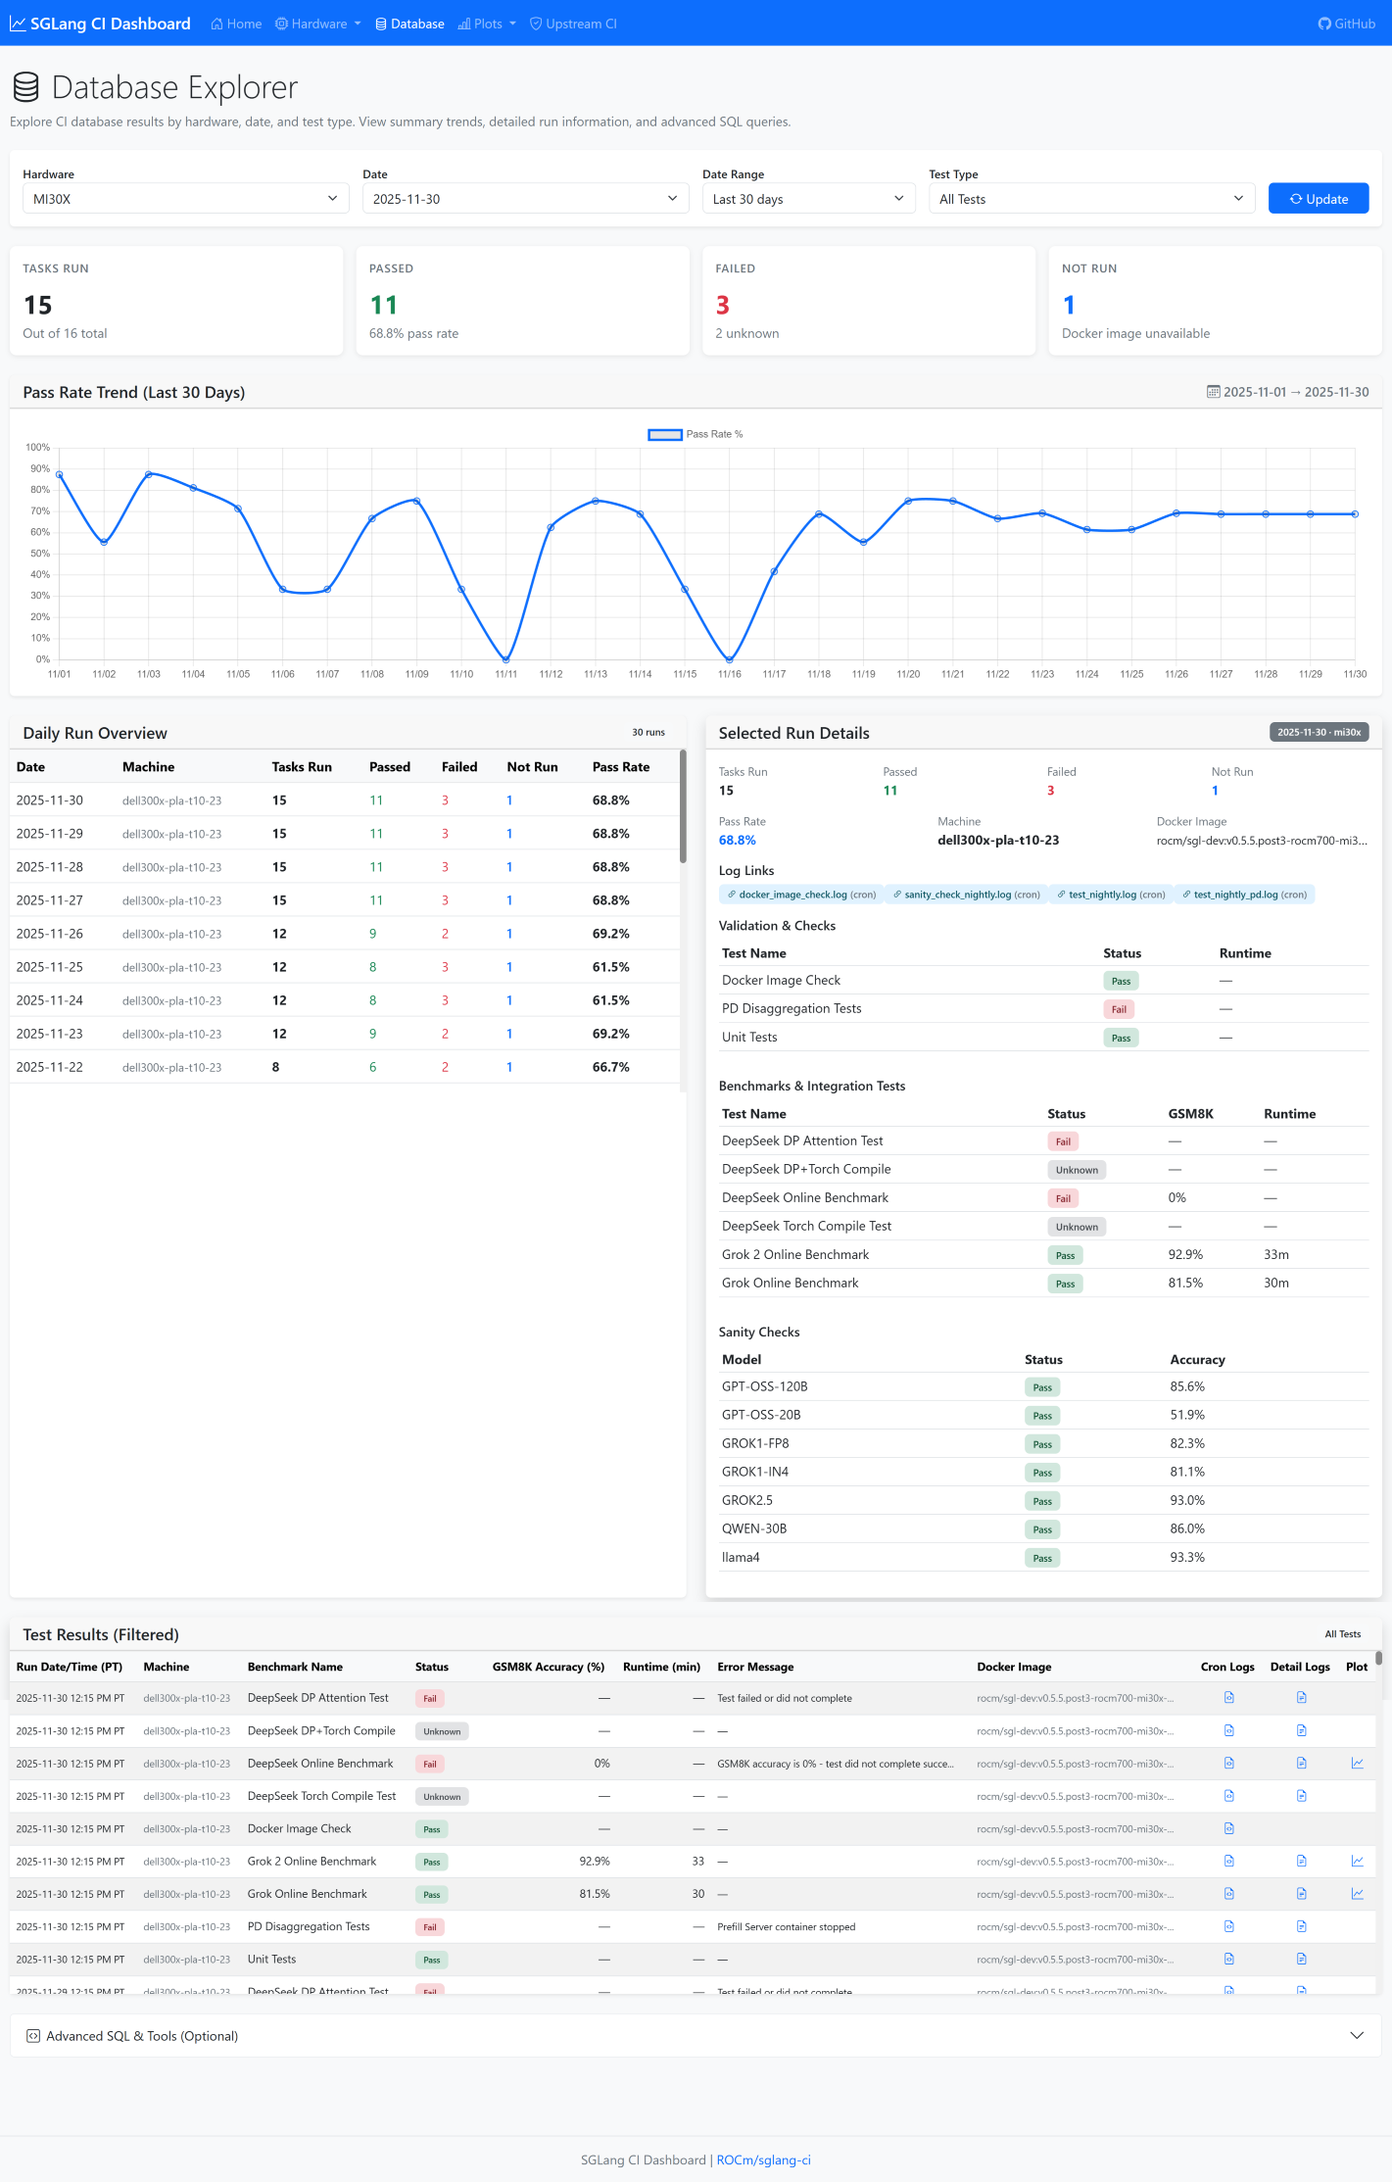
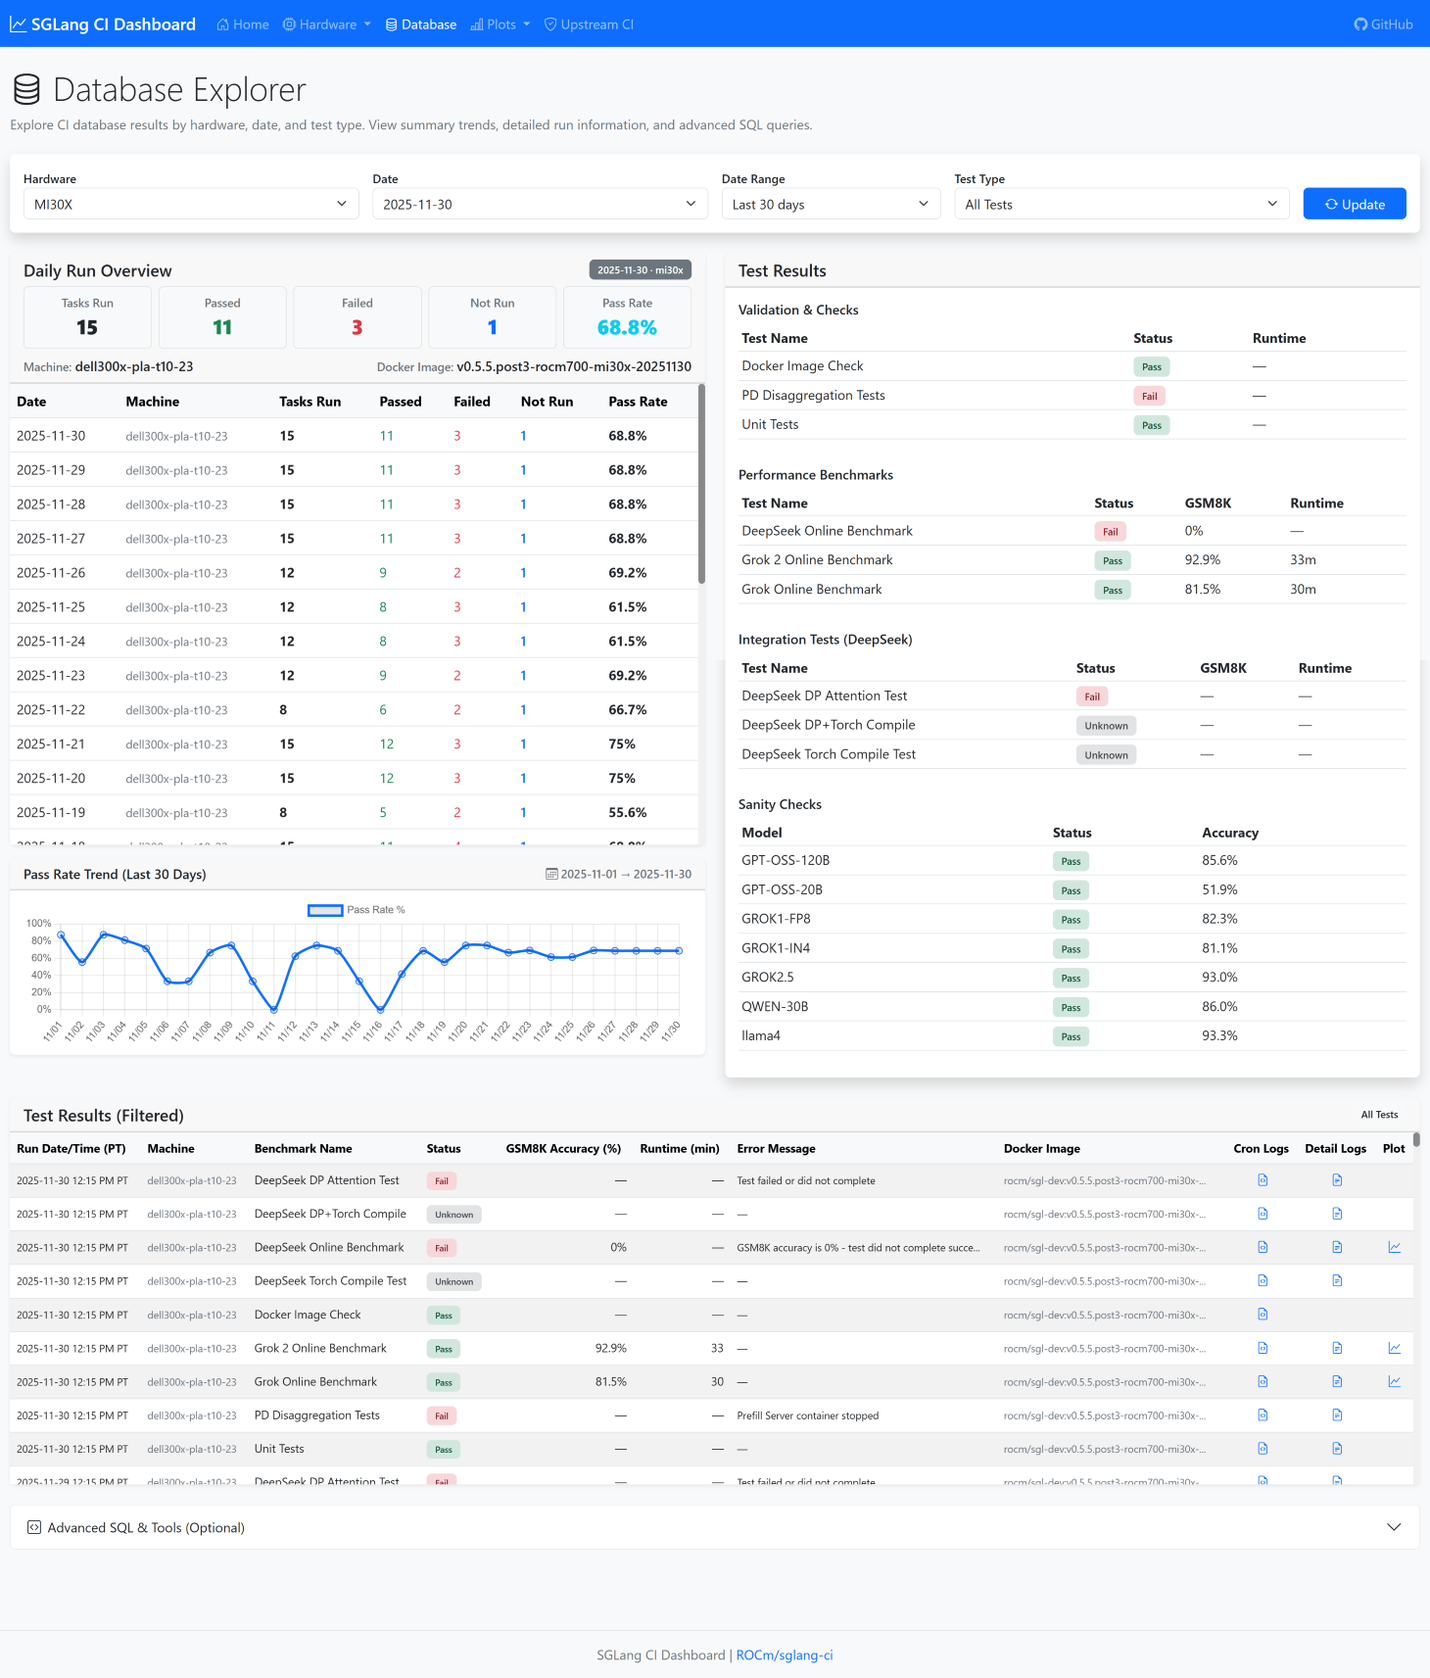
Refactor database page layout and enhance data presentation
- Removed the summary cards section and integrated its functionality into the Daily Run Overview for a more streamlined user experience.
- Updated the layout of the Daily Run Overview to include selected run statistics and improved visual presentation.
- Added a new section for Integration Tests (DeepSeek) to provide detailed insights into test results.
- Enhanced the Pass Rate Chart display and adjusted styling for better readability.
- Updated the JavaScript functions to reflect the changes in the HTML structure and ensure proper data rendering.

diff --git a/dashboard/templates/database.html b/dashboard/templates/database.html
@@ -177,32 +177,21 @@
         </div>
     </div>
 
-    <!-- Summary Cards -->
-    <div class="row g-3 mb-4" id="summaryCards"></div>
-
-    <!-- Pass Rate Chart -->
-    <div class="card mb-4">
-        <div class="card-header d-flex justify-content-between align-items-center">
-            <h5 class="mb-0">Pass Rate Trend (Last <span id="rangeLabel">7</span> Days)</h5>
-            <span class="text-muted"><i class="bi bi-calendar3"></i> <span id="dateRangeLabel">—</span></span>
-        </div>
-        <div class="card-body">
-            <div class="chart-container">
-                <canvas id="passRateChart"></canvas>
-            </div>
-        </div>
-    </div>
-
     <div class="row g-4 mb-4">
-        <!-- Daily Runs Table -->
+        <!-- Left Column: Daily Runs + Pass Rate Chart -->
         <div class="col-lg-6">
-            <div class="card h-100">
-                <div class="card-header d-flex justify-content-between align-items-center">
-                    <h5 class="mb-0">Daily Run Overview</h5>
-                    <span class="badge bg-light text-dark" id="dailyRunCount">0 runs</span>
+            <!-- Daily Runs Table with Stats -->
+            <div class="card mb-3">
+                <div class="card-header">
+                    <div class="d-flex justify-content-between align-items-center mb-2">
+                        <h5 class="mb-0">Daily Run Overview</h5>
+                        <span class="badge bg-secondary" id="selectedRunLabel">—</span>
+                    </div>
+                    <!-- Selected Run Stats -->
+                    <div id="selectedRunSummary" class="row g-2 text-center"></div>
                 </div>
                 <div class="card-body p-0">
-                    <div class="table-responsive">
+                    <div class="table-responsive" style="max-height: 550px;">
                         <table class="table table-hover mb-0" id="dailyRunsTable">
                             <thead class="table-light">
                                 <tr>
@@ -220,25 +209,28 @@
                     </div>
                 </div>
             </div>
-        </div>
 
-        <!-- Selected Run Details -->
-        <div class="col-lg-6">
-            <div class="card h-100">
-                <div class="card-header">
-                    <div class="d-flex justify-content-between align-items-center">
-                        <h5 class="mb-0">Selected Run Details</h5>
-                        <span class="badge bg-secondary" id="selectedRunLabel">—</span>
+            <!-- Pass Rate Chart -->
+            <div class="card">
+                <div class="card-header d-flex justify-content-between align-items-center py-2">
+                    <h6 class="mb-0">Pass Rate Trend (Last <span id="rangeLabel">7</span> Days)</h6>
+                    <span class="text-muted small"><i class="bi bi-calendar3"></i> <span id="dateRangeLabel">—</span></span>
+                </div>
+                <div class="card-body py-2">
+                    <div class="chart-container" style="height: 180px;">
+                        <canvas id="passRateChart"></canvas>
                     </div>
                 </div>
+            </div>
+        </div>
+
+        <!-- Right Column: Selected Run Details -->
+        <div class="col-lg-6">
+            <div class="card">
+                <div class="card-header">
+                    <h5 class="mb-0">Test Results</h5>
+                </div>
                 <div class="card-body">
-                    <div id="selectedRunSummary" class="mb-3"></div>
-
-                    <div class="mb-3">
-                        <h6>Log Links</h6>
-                        <div id="selectedRunLogs" class="d-flex flex-wrap"></div>
-                    </div>
-
                     <div class="mb-3">
                         <h6>Validation & Checks</h6>
                         <div class="table-responsive small-table">
@@ -256,9 +248,26 @@
                     </div>
 
                     <div class="mb-3">
-                        <h6>Benchmarks & Integration Tests</h6>
+                        <h6>Performance Benchmarks</h6>
                         <div class="table-responsive small-table">
                             <table class="table table-sm" id="selectedBenchmarksTable">
+                                <thead>
+                                    <tr>
+                                        <th>Test Name</th>
+                                        <th>Status</th>
+                                        <th>GSM8K</th>
+                                        <th>Runtime</th>
+                                    </tr>
+                                </thead>
+                                <tbody></tbody>
+                            </table>
+                        </div>
+                    </div>
+
+                    <div class="mb-3">
+                        <h6>Integration Tests (DeepSeek)</h6>
+                        <div class="table-responsive small-table">
+                            <table class="table table-sm" id="selectedIntegrationTable">
                                 <thead>
                                     <tr>
                                         <th>Test Name</th>
@@ -586,51 +595,7 @@ function updateFilterControls(data) {
 }
 
 function renderSummaryCards(data) {
-    const container = document.getElementById('summaryCards');
-    if (!container) return;
-
-    const selectedRun = data.selected_run || {};
-
-    const tasksRun = (selectedRun.total_tasks || 0) - (selectedRun.not_run || 0);
-
-    container.innerHTML = `
-        <div class="col-md-3">
-            <div class="card summary-card">
-                <div class="card-body">
-                    <div class="card-title">Tasks Run</div>
-                    <div class="card-value">${tasksRun}</div>
-                    <p class="text-muted mb-0">Out of ${selectedRun.total_tasks || 0} total</p>
-                </div>
-            </div>
-        </div>
-        <div class="col-md-3">
-            <div class="card summary-card">
-                <div class="card-body">
-                    <div class="card-title">Passed</div>
-                    <div class="card-value text-success">${selectedRun.passed_tasks || 0}</div>
-                    <p class="text-muted mb-0">${selectedRun.pass_rate || 0}% pass rate</p>
-                </div>
-            </div>
-        </div>
-        <div class="col-md-3">
-            <div class="card summary-card">
-                <div class="card-body">
-                    <div class="card-title">Failed</div>
-                    <div class="card-value text-danger">${selectedRun.failed_tasks || 0}</div>
-                    <p class="text-muted mb-0">${selectedRun.unknown_tasks || 0} unknown</p>
-                </div>
-            </div>
-        </div>
-        <div class="col-md-3">
-            <div class="card summary-card">
-                <div class="card-body">
-                    <div class="card-title">Not Run</div>
-                    <div class="card-value text-primary" style="font-weight: 700;">${selectedRun.not_run || 0}</div>
-                    <p class="text-muted mb-0">Docker image unavailable</p>
-                </div>
-            </div>
-        </div>
-    `;
+    // Function removed as summary cards are now integrated into Daily Run Overview
 }
 
 function renderDailyRuns(runs) {
@@ -690,15 +655,20 @@ function renderSelectedRun(selectedRun) {
     const validationTableBody = document.querySelector('#selectedValidationTable tbody');
     const benchmarkTableBody = document.querySelector('#selectedBenchmarksTable tbody');
     const sanityTableBody = document.querySelector('#selectedSanityTable tbody');
-    const logsContainer = document.getElementById('selectedRunLogs');
 
     if (!selectedRun) {
-        if (label) label.textContent = 'No run selected';
-        if (summaryContainer) summaryContainer.innerHTML = '<p class="text-muted">No run data available.</p>';
+        if (label) label.textContent = 'Select a run';
+        if (summaryContainer) summaryContainer.innerHTML = `
+            <div class="col"><div class="border rounded p-2 bg-light h-100 text-center"><div class="text-muted small">Tasks Run</div><strong class="fs-4">—</strong></div></div>
+            <div class="col"><div class="border rounded p-2 bg-light h-100 text-center"><div class="text-muted small">Passed</div><strong class="fs-4">—</strong></div></div>
+            <div class="col"><div class="border rounded p-2 bg-light h-100 text-center"><div class="text-muted small">Failed</div><strong class="fs-4">—</strong></div></div>
+            <div class="col"><div class="border rounded p-2 bg-light h-100 text-center"><div class="text-muted small">Not Run</div><strong class="fs-4">—</strong></div></div>
+            <div class="col"><div class="border rounded p-2 bg-light h-100 text-center"><div class="text-muted small">Pass Rate</div><strong class="fs-4">—</strong></div></div>
+            <div class="col-12 mt-2"><div class="d-flex justify-content-between align-items-center"><div><span class="text-muted small me-1">Machine:</span><span>—</span></div><div><span class="text-muted small me-1">Docker Image:</span><span>—</span></div></div></div>
+        `;
         if (validationTableBody) validationTableBody.innerHTML = '';
         if (benchmarkTableBody) benchmarkTableBody.innerHTML = '';
         if (sanityTableBody) sanityTableBody.innerHTML = '';
-        if (logsContainer) logsContainer.innerHTML = '';
         return;
     }
 
@@ -707,71 +677,78 @@ function renderSelectedRun(selectedRun) {
     }
 
     if (summaryContainer) {
-        const tasksRun = (selectedRun.total_tasks || 0) - (selectedRun.not_run || 0);
+        const totalTasks = selectedRun.total_tasks || 0;
+        const tasksRun = totalTasks - (selectedRun.not_run || 0);
+        const passRate = selectedRun.pass_rate || 0;
+        const notRun = selectedRun.not_run || 0;
         const machineName = selectedRun.machine_name || '—';
+        const dockerImage = selectedRun.docker_image || '—';
+        const dockerImageTag = dockerImage !== '—' ? dockerImage.split(':').pop() : '—';
+
         summaryContainer.innerHTML = `
-            <div class="row g-2 mb-3">
-                <div class="col-3">
+            <div class="col">
+                <div class="border rounded p-2 bg-light h-100 text-center">
                     <div class="text-muted small">Tasks Run</div>
-                    <strong>${tasksRun}</strong>
-                </div>
-                <div class="col-3">
-                    <div class="text-muted small">Passed</div>
-                    <strong class="text-success">${selectedRun.passed_tasks || 0}</strong>
-                </div>
-                <div class="col-3">
-                    <div class="text-muted small">Failed</div>
-                    <strong class="text-danger">${selectedRun.failed_tasks || 0}</strong>
-                </div>
-                <div class="col-3">
-                    <div class="text-muted small">Not Run</div>
-                    <strong class="text-primary" style="font-weight: 700;">${selectedRun.not_run || 0}</strong>
+                    <strong class="fs-4">${tasksRun}</strong>
                 </div>
             </div>
-            <div class="row g-2 mb-3">
-                <div class="col-4">
+            <div class="col">
+                <div class="border rounded p-2 bg-light h-100 text-center">
+                    <div class="text-muted small">Passed</div>
+                    <strong class="fs-4 text-success">${selectedRun.passed_tasks || 0}</strong>
+                </div>
+            </div>
+            <div class="col">
+                <div class="border rounded p-2 bg-light h-100 text-center">
+                    <div class="text-muted small">Failed</div>
+                    <strong class="fs-4 text-danger">${selectedRun.failed_tasks || 0}</strong>
+                </div>
+            </div>
+            <div class="col">
+                <div class="border rounded p-2 bg-light h-100 text-center">
+                    <div class="text-muted small">Not Run</div>
+                    <strong class="fs-4 text-primary">${notRun}</strong>
+                </div>
+            </div>
+            <div class="col">
+                <div class="border rounded p-2 bg-light h-100 text-center">
                     <div class="text-muted small">Pass Rate</div>
-                    <strong class="text-primary">${selectedRun.pass_rate || 0}%</strong>
+                    <strong class="fs-4 text-info">${passRate}%</strong>
                 </div>
-                <div class="col-4">
-                    <div class="text-muted small">Machine</div>
-                    <strong>${machineName}</strong>
-                </div>
-                <div class="col-4">
-                    <div class="text-muted small">Docker Image</div>
-                    <div class="text-truncate" title="${selectedRun.docker_image || '—'}"><small>${selectedRun.docker_image || '—'}</small></div>
+            </div>
+            <div class="col-12 mt-2">
+                <div class="d-flex justify-content-between align-items-center">
+                    <div><span class="text-muted small me-1">Machine:</span><span>${machineName}</span></div>
+                    <div><span class="text-muted small me-1">Docker Image:</span><span>${dockerImageTag}</span></div>
                 </div>
             </div>
         `;
     }
 
-    if (logsContainer) {
-        const logs = selectedRun.log_files || [];
-        if (!logs.length) {
-            logsContainer.innerHTML = '<span class="text-muted">No log links available.</span>';
-        } else {
-            logsContainer.innerHTML = logs.map((log) => {
-                const link = log.github_url || log.local_path || '#';
-                const icon = log.github_url ? 'bi-link-45deg' : 'bi-file-text';
-                const disabled = link === '#';
-                return `<a class="badge badge-log text-decoration-none ${disabled ? 'disabled' : ''}" href="${disabled ? '#!' : link}" target="_blank">` +
-                    `<i class="bi ${icon}"></i> ${log.log_name}` +
-                    `${log.log_type ? ` <span class=\"text-muted\">(${log.log_type})</span>` : ''}` +
-                `</a>`;
-            }).join('');
-        }
-    }
-
-    // Split test results into validation and benchmarks
-    if (benchmarkTableBody || validationTableBody) {
+    // Split test results into validation, benchmarks, and integration tests
+    const integrationTableBody = document.querySelector('#selectedIntegrationTable tbody');
+    if (benchmarkTableBody || validationTableBody || integrationTableBody) {
         const allTests = selectedRun.benchmark_results || [];
 
         // Define validation test names
         const validationTests = ['Unit Tests', 'PD Disaggregation Tests', 'Docker Image Check'];
 
-        // Split tests into two categories
+        // Define integration tests (DeepSeek-based tests)
+        const integrationTestNames = [
+            'DeepSeek DP Attention Test',
+            'DeepSeek Torch Compile Test',
+            'DeepSeek DP+Torch Compile',
+            'DeepSeek DP+MTP Test',
+            'DeepSeek MTP Test'
+        ];
+
+        // Split tests into three categories
         const validation = allTests.filter(test => validationTests.includes(test.benchmark_name));
-        const benchmarks = allTests.filter(test => !validationTests.includes(test.benchmark_name));
+        const integrationTests = allTests.filter(test => integrationTestNames.includes(test.benchmark_name));
+        const benchmarks = allTests.filter(test =>
+            !validationTests.includes(test.benchmark_name) &&
+            !integrationTestNames.includes(test.benchmark_name)
+        );
 
         // Render validation tests (no GSM8K column)
         if (validationTableBody) {
@@ -788,7 +765,7 @@ function renderSelectedRun(selectedRun) {
             }
         }
 
-        // Render benchmarks (with GSM8K column)
+        // Render performance benchmarks (Grok, DeepSeek Online)
         if (benchmarkTableBody) {
             if (!benchmarks.length) {
                 benchmarkTableBody.innerHTML = '<tr><td colspan="4" class="text-muted">No benchmark data</td></tr>';
@@ -799,6 +776,22 @@ function renderSelectedRun(selectedRun) {
                         <td>${statusBadge(bench.status)}</td>
                         <td>${bench.gsm8k_accuracy !== null ? bench.gsm8k_accuracy + '%' : '—'}</td>
                         <td>${bench.runtime_minutes ? bench.runtime_minutes + 'm' : '—'}</td>
+                    </tr>
+                `).join('');
+            }
+        }
+
+        // Render integration tests (DeepSeek feature tests)
+        if (integrationTableBody) {
+            if (!integrationTests.length) {
+                integrationTableBody.innerHTML = '<tr><td colspan="4" class="text-muted">No integration test data</td></tr>';
+            } else {
+                integrationTableBody.innerHTML = integrationTests.map((test) => `
+                    <tr>
+                        <td>${test.benchmark_name}</td>
+                        <td>${statusBadge(test.status)}</td>
+                        <td>${test.gsm8k_accuracy !== null ? test.gsm8k_accuracy + '%' : '—'}</td>
+                        <td>${test.runtime_minutes ? test.runtime_minutes + 'm' : '—'}</td>
                     </tr>
                 `).join('');
             }
